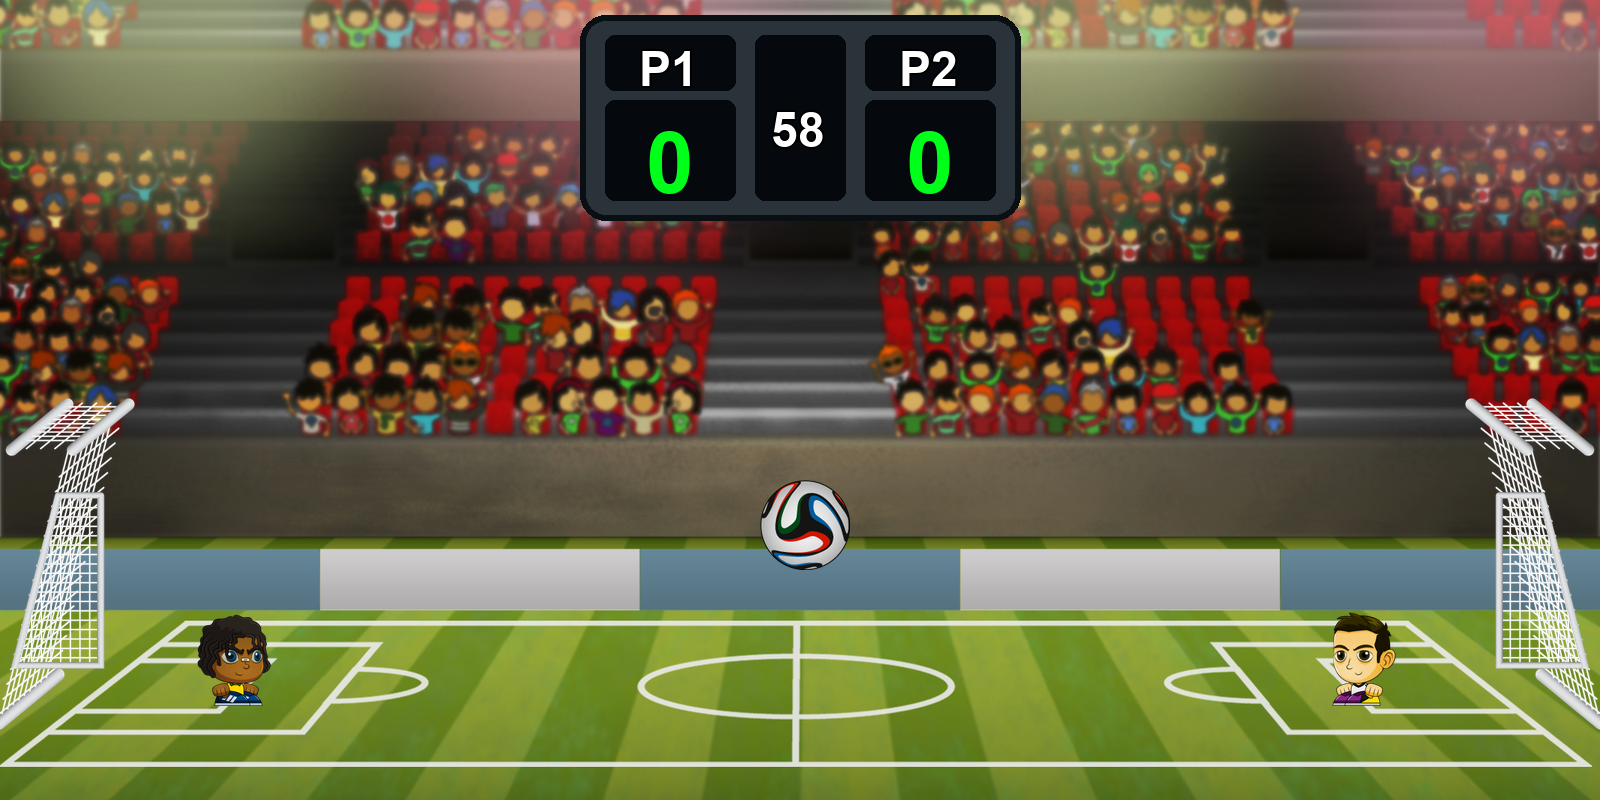
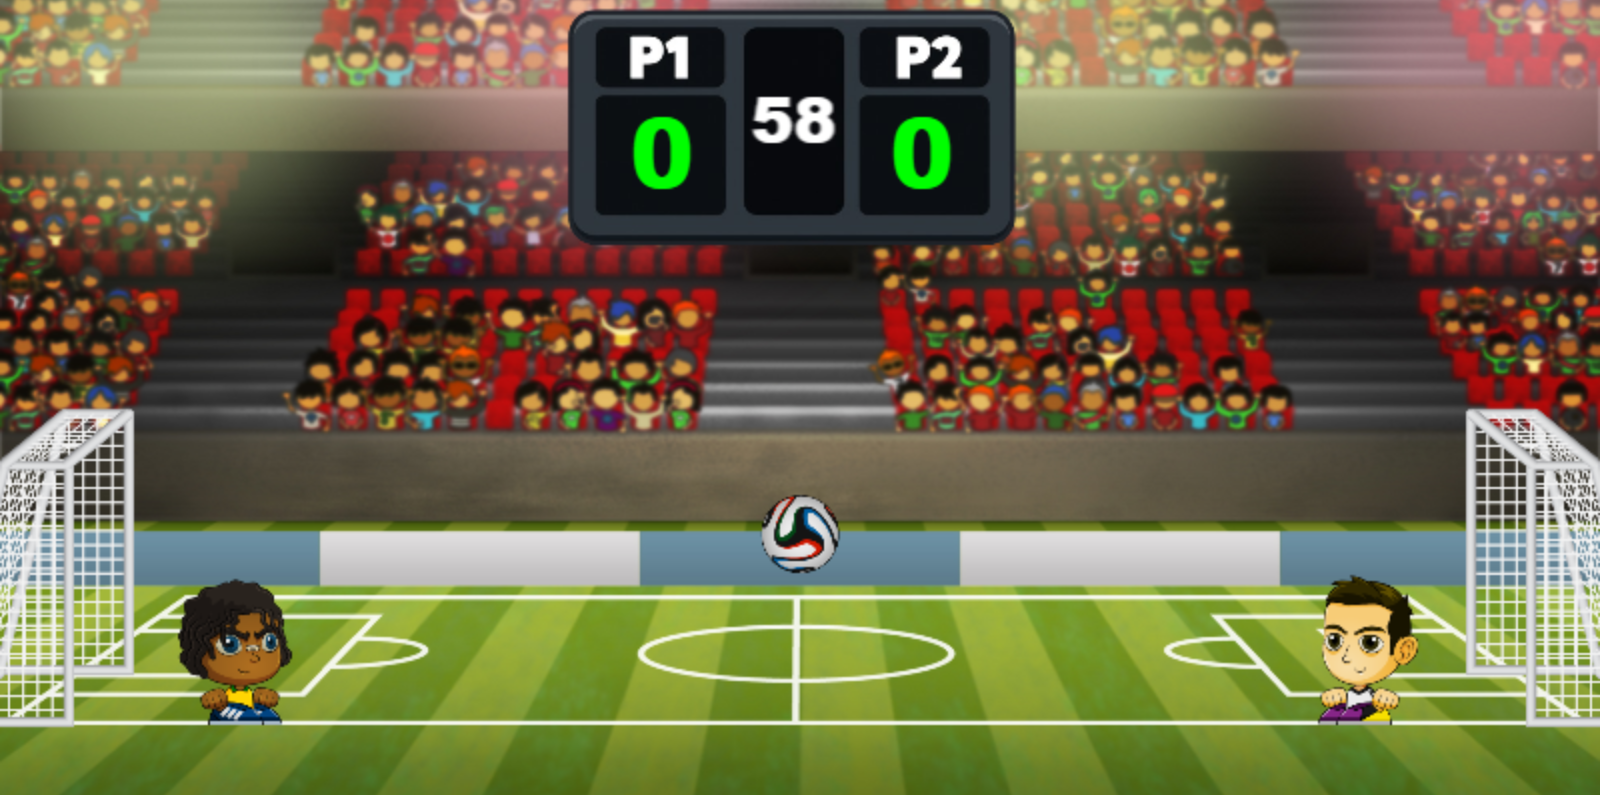
Replace README screenshots

diff --git a/README.md b/README.md
@@ -23,22 +23,22 @@ O projecto implementa uma partida rápida no mesmo teclado, com selecção de pe
 
 ## Demonstração
 
-### Menu inicial
-
-<p align="center">
-  <img src="docs/screenshots/menu.png" width="700" alt="Menu inicial do Soccer Head" />
-</p>
-
 ### Selecção de personagens
 
 <p align="center">
   <img src="docs/screenshots/character-selection.png" width="700" alt="Ecrã de selecção de personagens" />
 </p>
 
-### Partida
+### Início da partida
 
 <p align="center">
   <img src="docs/screenshots/gameplay.png" width="700" alt="Partida local entre dois jogadores" />
+</p>
+
+### Partida com golo
+
+<p align="center">
+  <img src="docs/screenshots/gameplay-goal.png" width="700" alt="Partida com marcador actualizado" />
 </p>
 
 ### Ecrã final